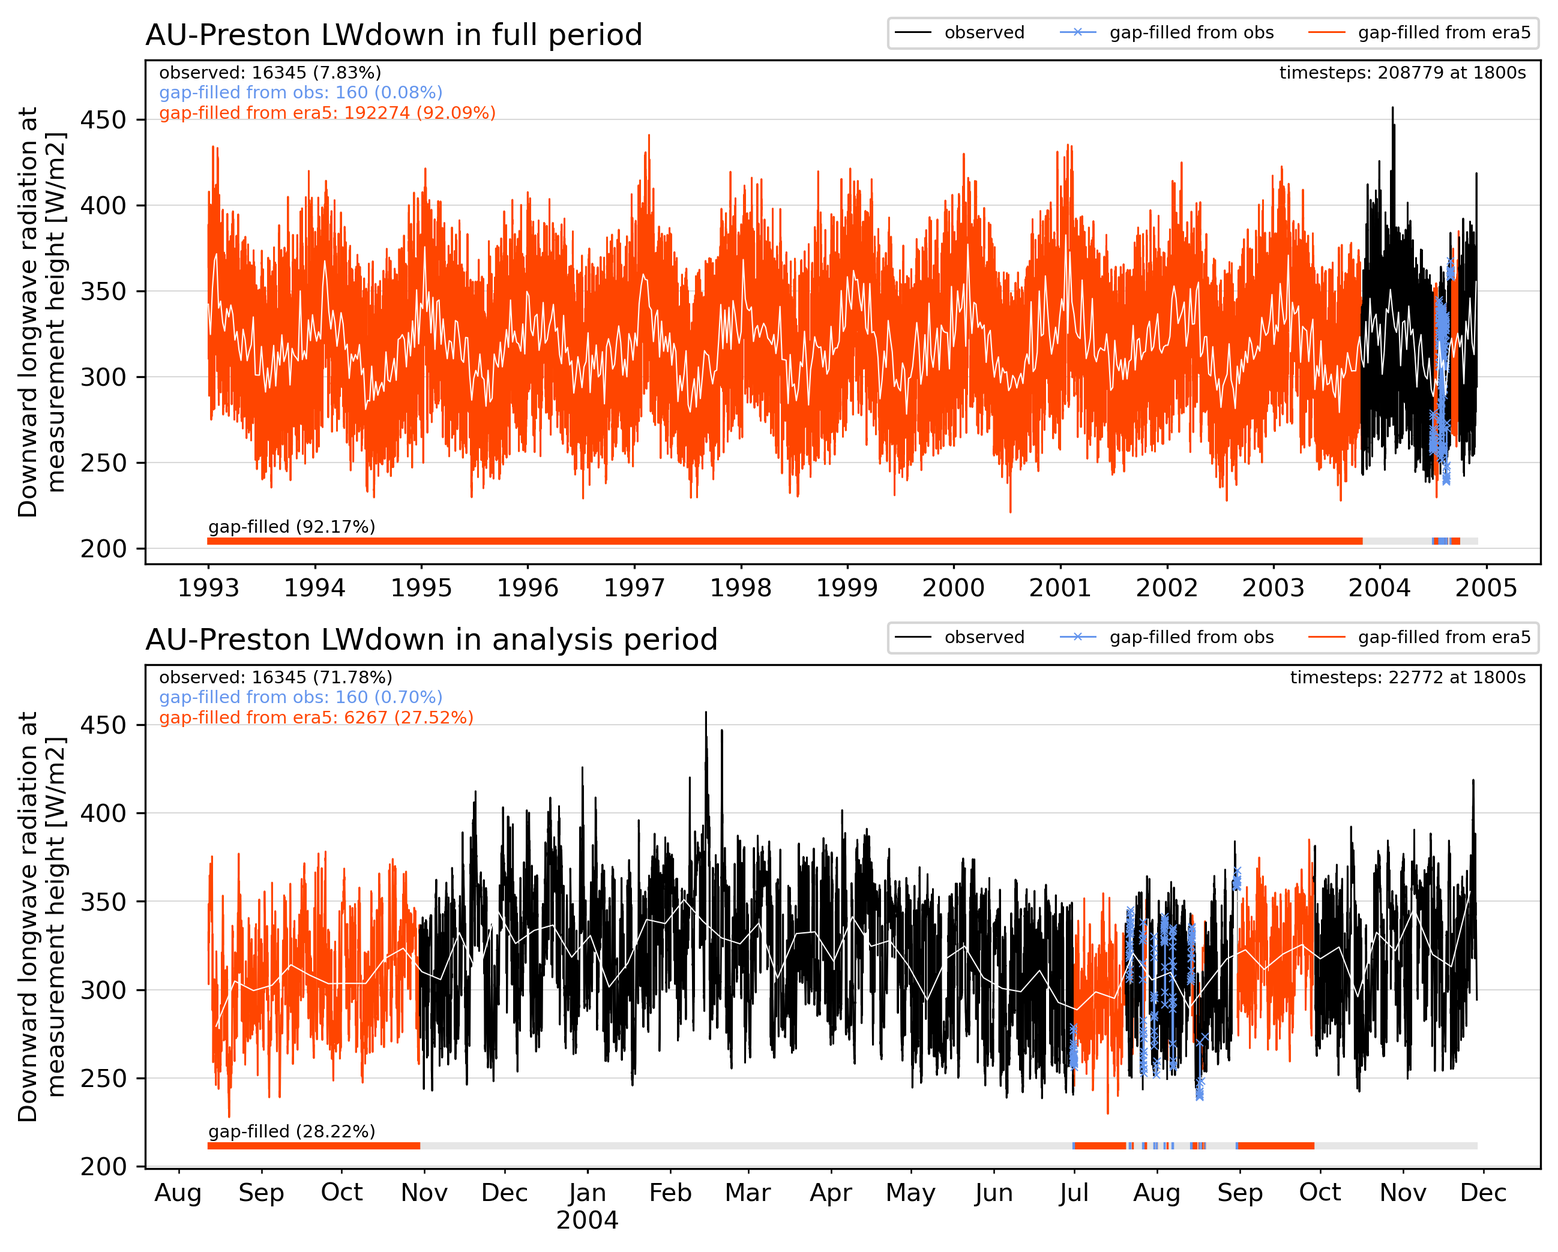
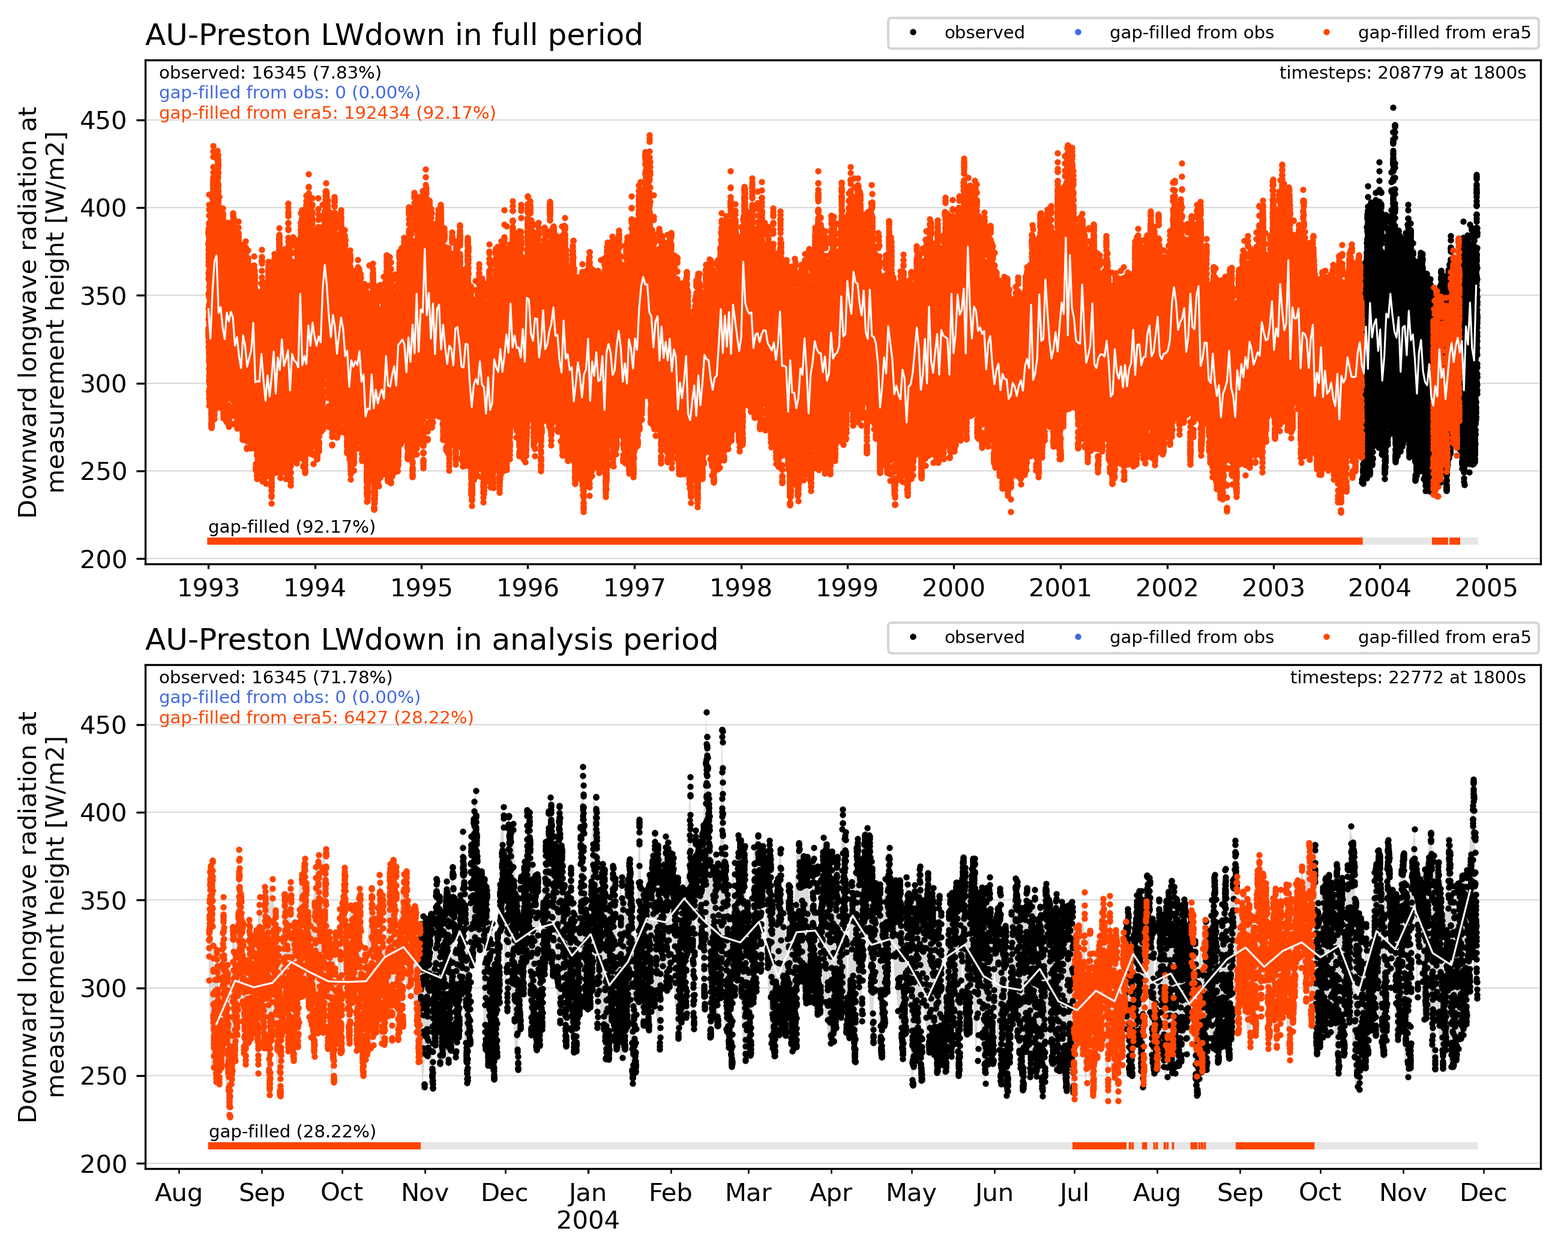
update obs webpage for AU-Preston

diff --git a/AU-Preston/index.md b/AU-Preston/index.md
@@ -1,58 +1,62 @@
 # AU-Preston
 
-## Site observations
+## Site observation metadata
 
-|                           | observation_attributes                                                         |
-|:--------------------------|:-------------------------------------------------------------------------------|
-| title                     | Cleaned flux tower observations for AU-Preston                                 |
-| summary                   | Quality controlled observations for the Urban-PLUMBER model evaluation project |
-| sitename                  | AU-Preston                                                                     |
-| version                   | v3                                                                             |
-| conventions               | ALMA+CF.rev13                                                                  |
-| featureType               | timeSeries                                                                     |
-| time_coverage_start       | 2003-08-12 03:30:00                                                            |
-| time_coverage_end         | 2004-11-28 13:00:00                                                            |
-| time_shown_in             | UTC                                                                            |
-| local_utc_offset_hours    | 10.0                                                                           |
-| timestep_interval_seconds | 1800.0                                                                         |
-| timestep_number_analysis  | 22772                                                                          |
-| date_created              | 2021-01-15 19:14:09                                                            |
-| project_contact           | Mathew Lipson: m.lipson@unsw.edu.au, Martin Best: martin.best@metoffice.gov.uk |
-| observations_contact      | Andrew Coutts: andrew.coutts@monash.edu; Nigel Tapper: nigel.tapper@monash.edu |
-| observations_reference    | Coutts, A. M., Beringer, J. and Tapper, N. J.: doi:10.1175/JAM2462.1           |
+|                           | observation_attributes                                                                                                                                                                                                                                                                           |
+|:--------------------------|:-------------------------------------------------------------------------------------------------------------------------------------------------------------------------------------------------------------------------------------------------------------------------------------------------|
+| title                     | URBAN-PLUMBER forcing data for AU-Preston                                                                                                                                                                                                                                                        |
+| summary                   | Combined observational and ERA5-derived surface meteorological data for Preston, Melbourne, Australia. For forcing of land surface models participating in Urban-PLUMBER. Data is for use by registered participants of Urban-PLUMBER in this project only. Do not distribute. All times in UTC. |
+| sitename                  | AU-Preston                                                                                                                                                                                                                                                                                       |
+| version                   | v3                                                                                                                                                                                                                                                                                               |
+| conventions               | ALMA+CF.rev13                                                                                                                                                                                                                                                                                    |
+| featureType               | timeSeries                                                                                                                                                                                                                                                                                       |
+| time_coverage_start       | 1993-01-01 00:00:00                                                                                                                                                                                                                                                                              |
+| time_coverage_end         | 2004-11-28 13:00:00                                                                                                                                                                                                                                                                              |
+| time_analysis_start       | 2003-08-12 03:30:00                                                                                                                                                                                                                                                                              |
+| time_shown_in             | UTC                                                                                                                                                                                                                                                                                              |
+| local_utc_offset_hours    | 10.0                                                                                                                                                                                                                                                                                             |
+| timestep_interval_seconds | 1800.0                                                                                                                                                                                                                                                                                           |
+| timestep_number_spinup    | 186007                                                                                                                                                                                                                                                                                           |
+| timestep_number_analysis  | 22772                                                                                                                                                                                                                                                                                            |
+| date_created              | 2021-02-17 17:35:49                                                                                                                                                                                                                                                                              |
+| project_contact           | Mathew Lipson: m.lipson@unsw.edu.au, Sue Grimmond: c.s.grimmond@reading.ac.uk, Martin Best: martin.best@metoffice.gov.uk                                                                                                                                                                         |
+| observations_contact      | Andrew Coutts: andrew.coutts@monash.edu; Nigel Tapper: nigel.tapper@monash.edu                                                                                                                                                                                                                   |
+| observations_reference    | Coutts, Beringer and Tapper (2007a): https://doi.org/doi:10.1175/JAM2462.1; Coutts, Beringer and Tapper (2007b) https://doi.org/10.1016/j.atmosenv.2006.08.030                                                                                                                                   |
+| other_references          | ERA5: Copernicus Climate Change Service (C3S) (2017): https://cds.climate.copernicus.eu/cdsapp#!/home                                                                                                                                                                                            |
+| acknowledgements          | Contains modified Copernicus Climate Change Service Information (ERA5 hourly data on single levels). With thanks to all involved in collecting, processing and sharing observational data                                                                                                        |
 
 ## Site characteristics
 
-[![site_photo.png](site_photo.png)](site_photo.png)
+[![site_photo.jpg](site_photo.jpg)](site_photo.jpg)
+image source: Coutts et al. 2007: doi:[10.1016/j.atmosenv.2006.08.030](http://doi.org/10.1016/j.atmosenv.2006.08.030)
 
-source: Coutts et al. 2007: doi:[10.1016/j.atmosenv.2006.08.030](http://doi.org/10.1016/j.atmosenv.2006.08.030)
 
-|   id | parameter                       |     value | units         | source                 |
-|-----:|:--------------------------------|----------:|:--------------|:-----------------------|
-|    1 | latitude                        |  -37.7306 | degrees_north | Coutts et al. 2007a    |
-|    2 | longitude                       |  145.014  | degrees_east  | Coutts et al. 2007a    |
-|    3 | ground_height                   |   93      | m             | Coutts et al. 2007a    |
-|    4 | measurement_height_above_ground |   40      | m             | Coutts et al. 2007b    |
-|    5 | impervious_area_fraction        |    0.62   | 1             | Grimmond et al. 2011   |
-|    6 | tree_area_fraction              |    0.225  | 1             | Grimmond et al. 2011   |
-|    7 | grass_area_fraction             |    0.15   | 1             | Grimmond et al. 2011   |
-|    8 | bare_soil_area_fraction         |    0.005  | 1             | Grimmond et al. 2011   |
-|    9 | water_area_fraction             |    0      | 1             | Grimmond et al. 2011   |
-|   10 | roof_area_fraction              |    0.445  | 1             | Grimmond et al. 2011   |
-|   11 | road_area_fraction              |    0.13   | 1             | Grimmond et al. 2011   |
-|   12 | footpath_area_fraction          |    0.045  | 1             | Grimmond et al. 2011   |
-|   13 | building_mean_height            |    6.4    | m             | Grimmond et al. 2011   |
-|   14 | tree_mean_height                |    5.7    | m             | Nice et al. 2018       |
-|   15 | roughness_length_momentum       |    0.4    | m             | Grimmond et al. 2011   |
-|   16 | displacement_height             |    4.57   | m             | Macdonald et al. 1998  |
-|   17 | canyon_height_width_ratio       |    0.42   | 1             | Grimmond et al. 2011   |
-|   18 | wall_to_plan_area_ratio         |    0.4    | 1             | Grimmond et al. 2011   |
-|   19 | average_albedo_at_midday        |    0.15   | 1             | Grimmond et al. 2011   |
-|   20 | resident_population_density     |  415.78   | person/km2    | Grimmond et al. 2011   |
-|   21 | anthropogenic_heat_flux_mean    |   11      | W/m2          | Best and Grimmond 2016 |
-|   22 | topsoil_clay_fraction           |    0.18   | 1             | openlandmap.org        |
-|   23 | topsoil_sand_fraction           |    0.72   | 1             | openlandmap.org        |
-|   24 | topsoil_bulk_density            | 1230      | kg/m3         | openlandmap.org        |
+|   id | parameter                       |     value | units         | source                 | doi                                                                                              |
+|-----:|:--------------------------------|----------:|:--------------|:-----------------------|:-------------------------------------------------------------------------------------------------|
+|    1 | latitude                        |  -37.7306 | degrees_north | Coutts et al. 2007a    | [https://doi.org/10.1016/j.atmosenv.2006.08.030](https://doi.org/10.1016/j.atmosenv.2006.08.030) |
+|    2 | longitude                       |  145.014  | degrees_east  | Coutts et al. 2007a    | [https://doi.org/10.1016/j.atmosenv.2006.08.030](https://doi.org/10.1016/j.atmosenv.2006.08.030) |
+|    3 | ground_height                   |   93      | m             | Coutts et al. 2007a    | [https://doi.org/10.1016/j.atmosenv.2006.08.030](https://doi.org/10.1016/j.atmosenv.2006.08.030) |
+|    4 | measurement_height_above_ground |   40      | m             | Coutts et al. 2007b    | [https://doi.org/10.1175/JAM2462.1](https://doi.org/10.1175/JAM2462.1)                           |
+|    5 | impervious_area_fraction        |    0.62   | 1             | Grimmond et al. 2011   | [https://doi.org/10.1002/joc.2227](https://doi.org/10.1002/joc.2227)                             |
+|    6 | tree_area_fraction              |    0.225  | 1             | Grimmond et al. 2011   | [https://doi.org/10.1002/joc.2227](https://doi.org/10.1002/joc.2227)                             |
+|    7 | grass_area_fraction             |    0.15   | 1             | Grimmond et al. 2011   | [https://doi.org/10.1002/joc.2227](https://doi.org/10.1002/joc.2227)                             |
+|    8 | bare_soil_area_fraction         |    0.005  | 1             | Grimmond et al. 2011   | [https://doi.org/10.1002/joc.2227](https://doi.org/10.1002/joc.2227)                             |
+|    9 | water_area_fraction             |    0      | 1             | Grimmond et al. 2011   | [https://doi.org/10.1002/joc.2227](https://doi.org/10.1002/joc.2227)                             |
+|   10 | roof_area_fraction              |    0.445  | 1             | Grimmond et al. 2011   | [https://doi.org/10.1002/joc.2227](https://doi.org/10.1002/joc.2227)                             |
+|   11 | road_area_fraction              |    0.13   | 1             | Grimmond et al. 2011   | [https://doi.org/10.1002/joc.2227](https://doi.org/10.1002/joc.2227)                             |
+|   12 | footpath_area_fraction          |    0.045  | 1             | Grimmond et al. 2011   | [https://doi.org/10.1002/joc.2227](https://doi.org/10.1002/joc.2227)                             |
+|   13 | building_mean_height            |    6.4    | m             | Grimmond et al. 2011   | [https://doi.org/10.1002/joc.2227](https://doi.org/10.1002/joc.2227)                             |
+|   14 | tree_mean_height                |    5.7    | m             | Nice et al. 2018       | [https://doi.org/10.1016/j.uclim.2017.12.008](https://doi.org/10.1016/j.uclim.2017.12.008)       |
+|   15 | roughness_length_momentum       |    0.4    | m             | Grimmond et al. 2011   | [https://doi.org/10.1002/joc.2227](https://doi.org/10.1002/joc.2227)                             |
+|   16 | displacement_height             |    4.57   | m             | Macdonald et al. 1998  | [https://doi.org/10.1016/S1352-2310(97)00403-2](https://doi.org/10.1016/S1352-2310(97)00403-2)   |
+|   17 | canyon_height_width_ratio       |    0.42   | 1             | Grimmond et al. 2011   | [https://doi.org/10.1002/joc.2227](https://doi.org/10.1002/joc.2227)                             |
+|   18 | wall_to_plan_area_ratio         |    0.4    | 1             | Grimmond et al. 2011   | [https://doi.org/10.1002/joc.2227](https://doi.org/10.1002/joc.2227)                             |
+|   19 | average_albedo_at_midday        |    0.15   | 1             | Current dataset        | -                                                                                                |
+|   20 | resident_population_density     |  415.78   | person/km2    | Grimmond et al. 2011   | [https://doi.org/10.1002/joc.2227](https://doi.org/10.1002/joc.2227)                             |
+|   21 | anthropogenic_heat_flux_mean    |   11      | W/m2          | Best and Grimmond 2016 | [https://doi.org/10.1007/s00704-015-1554-3](https://doi.org/10.1007/s00704-015-1554-3)           |
+|   22 | topsoil_clay_fraction           |    0.18   | 1             | OpenLandMap            | [https://doi.org/10.5281/zenodo.2525663](https://doi.org/10.5281/zenodo.2525663)                 |
+|   23 | topsoil_sand_fraction           |    0.72   | 1             | OpenLandMap            | [https://doi.org/10.5281/zenodo.2525662](https://doi.org/10.5281/zenodo.2525662)                 |
+|   24 | topsoil_bulk_density            | 1230      | kg/m3         | OpenLandMap            | [https://doi.org/10.5281/zenodo.2525665](https://doi.org/10.5281/zenodo.2525665)                 |
 
 ## Site observations
 
@@ -60,63 +64,106 @@ source: Coutts et al. 2007: doi:[10.1016/j.atmosenv.2006.08.030](http://doi.org/
 
 ## Site forcing
 
-### SWdown
+### SWdown forcing
 
 [![./obs_plots/SWdown_gapfilled_forcing.png](./obs_plots/SWdown_gapfilled_forcing.png)](./obs_plots/SWdown_gapfilled_forcing.png)
 
-### LWdown
+### LWdown forcing
 
 [![./obs_plots/LWdown_gapfilled_forcing.png](./obs_plots/LWdown_gapfilled_forcing.png)](./obs_plots/LWdown_gapfilled_forcing.png)
 
-### Tair
+### Tair forcing
 
 [![./obs_plots/Tair_gapfilled_forcing.png](./obs_plots/Tair_gapfilled_forcing.png)](./obs_plots/Tair_gapfilled_forcing.png)
 
-### Qair
+### Qair forcing
 
 [![./obs_plots/Qair_gapfilled_forcing.png](./obs_plots/Qair_gapfilled_forcing.png)](./obs_plots/Qair_gapfilled_forcing.png)
 
-### PSurf
+### PSurf forcing
 
 [![./obs_plots/PSurf_gapfilled_forcing.png](./obs_plots/PSurf_gapfilled_forcing.png)](./obs_plots/PSurf_gapfilled_forcing.png)
 
-### Rainf
+### Rainf forcing
 
 [![./obs_plots/Rainf_gapfilled_forcing.png](./obs_plots/Rainf_gapfilled_forcing.png)](./obs_plots/Rainf_gapfilled_forcing.png)
 
-### Snowf
+### Snowf forcing
 
 [![./obs_plots/Snowf_gapfilled_forcing.png](./obs_plots/Snowf_gapfilled_forcing.png)](./obs_plots/Snowf_gapfilled_forcing.png)
 
-### Wind_N
+### Wind_N forcing
 
 [![./obs_plots/Wind_N_gapfilled_forcing.png](./obs_plots/Wind_N_gapfilled_forcing.png)](./obs_plots/Wind_N_gapfilled_forcing.png)
 
-### Wind_E
+### Wind_E forcing
 
 [![./obs_plots/Wind_E_gapfilled_forcing.png](./obs_plots/Wind_E_gapfilled_forcing.png)](./obs_plots/Wind_E_gapfilled_forcing.png)
 
-## Quality control and gap filling procedure
+## Quality control (qc) and gap filling procedure
 
 
 **QC process on observations**
  
  - remove values outside the ALMAv3 protocol expected range values
  - remove night periods for shortwave between civil twilight times for site latitude and longitude
- - remove constant values of 4 or more timesteps (excluding rainfall, snowfall)
+ - remove constant values of 4 or more timesteps (excluding rainfall and snowfall)
  - remove outliers by applying a filter for values outside 5 standard deviations for each hour in a rolling 30 day window. Applying that filter until no outliers exist.
  
 **Gap-filling process**
   
  - for gaps of 2 hours or less, fill with linear interpolation of adjacent observation
- - for remaining gaps, fill with the time-averaged profile for adjacent days, where available
- - again fill gaps of 2 hours or less with linear interpolation of observation
- - fill remaining gaps with bias-corrected, ERA5 derived data
+ - fill remaining gaps with bias-corrected, ERA5 derived data (see below)
  - prepend flux tower data period with 10-years of ERA5 derived data (used for model spinup)
  
 **ERA5 bias correction**
  
- - for energy fluxes, temperature, humidity and pressure: calculate the mean bias between ERA5 and flux tower data in a 30-day rolling window for every hour of the year, and apply that bias correction to ERA5 data
+ - for downwelling longwave, temperature, humidity and pressure: calculate the mean bias between ERA5 and flux tower data in a 30-day rolling window for every hour and each day of the year, and apply that bias correction to all ERA5 data. For periods not covered by observations, linearly interpoloate between known biases for each hour seperately.
  - for rainfall: calculate total precipitation in a 10-year period and calculate the ratio between ERA5 data and the nearest GHCN-D station and apply that correction factor to ERA5 data.
  - for wind: apply wind log profile correction based on ERA5 reference height (10m) and flux tower measurement heights, plus ERA5 and local roughness and displacement.
+ - for downwelling shortwave: use ERA5 data without correction
+
+### SWdown diurnal qc
+
+[![./obs_plots/SWdown_obs_qc_diurnal.png](./obs_plots/SWdown_obs_qc_diurnal.png)](./obs_plots/SWdown_obs_qc_diurnal.png)
+
+### LWdown diurnal qc
+
+[![./obs_plots/LWdown_obs_qc_diurnal.png](./obs_plots/LWdown_obs_qc_diurnal.png)](./obs_plots/LWdown_obs_qc_diurnal.png)
+
+### Tair diurnal qc
+
+[![./obs_plots/Tair_obs_qc_diurnal.png](./obs_plots/Tair_obs_qc_diurnal.png)](./obs_plots/Tair_obs_qc_diurnal.png)
+
+### Qair diurnal qc
+
+[![./obs_plots/Qair_obs_qc_diurnal.png](./obs_plots/Qair_obs_qc_diurnal.png)](./obs_plots/Qair_obs_qc_diurnal.png)
+
+### PSurf diurnal qc
+
+[![./obs_plots/PSurf_obs_qc_diurnal.png](./obs_plots/PSurf_obs_qc_diurnal.png)](./obs_plots/PSurf_obs_qc_diurnal.png)
+
+### Wind_N diurnal qc
+
+[![./obs_plots/Wind_N_obs_qc_diurnal.png](./obs_plots/Wind_N_obs_qc_diurnal.png)](./obs_plots/Wind_N_obs_qc_diurnal.png)
+
+### Wind_E diurnal qc
+
+[![./obs_plots/Wind_E_obs_qc_diurnal.png](./obs_plots/Wind_E_obs_qc_diurnal.png)](./obs_plots/Wind_E_obs_qc_diurnal.png)
+
+### SWup diurnal qc
+
+[![./obs_plots/SWup_obs_qc_diurnal.png](./obs_plots/SWup_obs_qc_diurnal.png)](./obs_plots/SWup_obs_qc_diurnal.png)
+
+### LWup diurnal qc
+
+[![./obs_plots/LWup_obs_qc_diurnal.png](./obs_plots/LWup_obs_qc_diurnal.png)](./obs_plots/LWup_obs_qc_diurnal.png)
+
+### Qh diurnal qc
+
+[![./obs_plots/Qh_obs_qc_diurnal.png](./obs_plots/Qh_obs_qc_diurnal.png)](./obs_plots/Qh_obs_qc_diurnal.png)
+
+### Qle diurnal qc
+
+[![./obs_plots/Qle_obs_qc_diurnal.png](./obs_plots/Qle_obs_qc_diurnal.png)](./obs_plots/Qle_obs_qc_diurnal.png)
 
